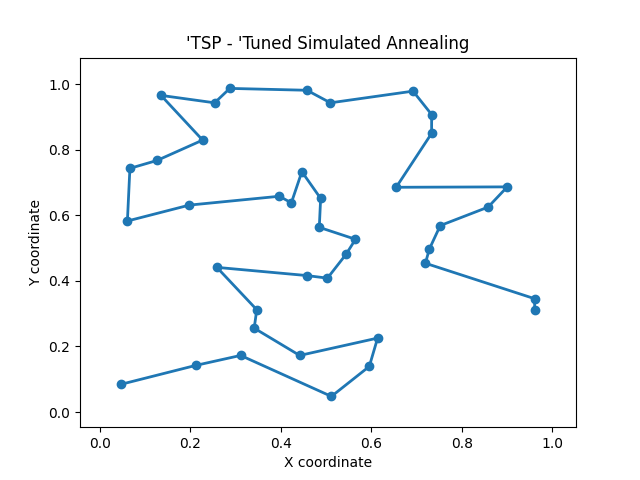
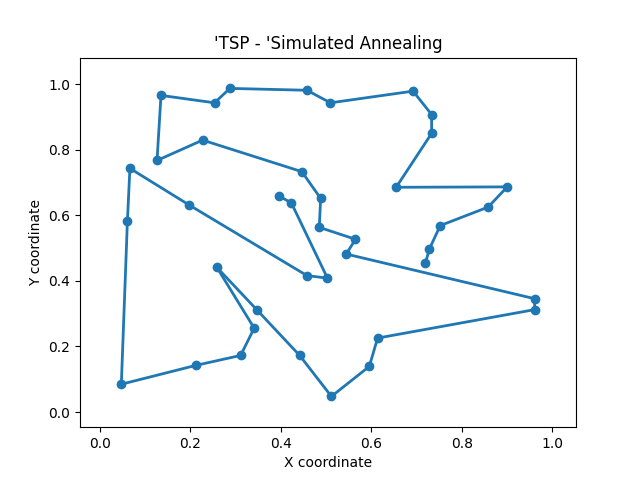
testing out performance

diff --git a/tsp.py b/tsp.py
@@ -3,6 +3,7 @@ import matplotlib.collections as mc
 import matplotlib.pylab as pl
 import numpy as np
 
+
 pythagorean = lambda a, b: math.sqrt(a**2 + b**2)
 
 def genlines(cities, itinerary):
@@ -226,17 +227,47 @@ def perturb_sa3(cities, itinerary, time, maxitin):
 
     return itinerarytoreturn.copy()
 
-if __name__ == "__main__":
+
+def siman(itinerary, cities):
+    """ """
+    global mindisance
+    global minitinerary
+    global minidx
+    
+    newitinerary = itinerary.copy()
+    mindistance = howfar(genlines(cities, itinerary))
+    minitinerary = itinerary
+    minidx = 0
+    
+    maxitin = len(itinerary) * 50_000
+    for t in range(0, maxitin):
+        newitinerary = perturb_sa3(cities, newitinerary, t, maxitin)
+    
+    return newitinerary.copy()
+    
+    
+def init_func():
+    """ """
+    global N
+    global random_seed
+    global time
+    global mindistance
+    global x, y
+    global cities
+    
     N = 40
     random_seed = 1729
     time = 500_000_000
-    maxitin = 2
-    minidx = 0
-    minitinerary = 0
-    #mindistance = float('inf')
+    mindistance = float('inf')
     
     #Genetare hipotetical cities
-    x, y, cities = generate_cities(random_seed, N)
+    x, y, cities = generate_cities(random_seed, N)        
+
+
+if __name__ == "__main__":
+
+    #Initialize all variables
+    init_func()
 
     #Itinerary secuentially generated 
     itinerary = list(range(0, N))
@@ -250,7 +281,7 @@ if __name__ == "__main__":
     itinerary = list(range(0, N))
     np.random.seed(random_seed)
     itinerary_ps = itinerary.copy()
-    for n in range(0, len(itinerary)*1000):
+    for n in range(0, len(itinerary)*50_000):
         itinerary_ps = perturb(cities, itinerary_ps)
     display_results(cities, itinerary_ps, N, 'Perturb search', 'figure4')    
 
@@ -258,7 +289,7 @@ if __name__ == "__main__":
     itinerary = list(range(0, N))
     np.random.seed(random_seed)
     itinerary_ps = itinerary.copy()
-    for n in range(0, len(itinerary)*1000):
+    for n in range(0, len(itinerary)*50_000):
         itinerary_ps = perturb_sa1(cities, itinerary_ps, time)
     display_results(cities, itinerary_ps, N, 'Simulated Annealing', 'figure5')    
 
@@ -266,15 +297,20 @@ if __name__ == "__main__":
     itinerary = list(range(0, N))
     np.random.seed(random_seed)
     itinerary_ps = itinerary.copy()
-    for n in range(0, len(itinerary)*1000):
+    for n in range(0, len(itinerary)*50_000):
         itinerary_ps = perturb_sa2(cities, itinerary_ps, time)
-    display_results(cities, itinerary_ps, N, 'Tuned Simulated Annealing', 'figure5')
+    display_results(cities, itinerary_ps, N, 'Tuned Simulated Annealing', 'figure6')
 
     #Itinerary generated by simulated annealing improved
-    itinerary = list(range(0, N))
     np.random.seed(random_seed)
-    itinerary_ps = itinerary.copy()
-    for n in range(0, len(itinerary)*1000):
-        itinerary_ps = perturb_sa3(cities, itinerary_ps, time, maxitin)
-    display_results(cities, itinerary_ps, N, 'Simulated Annealing allowing reset', 'figure6')  
+    itinerary = list(range(N))
+    nnitin = donn(cities, N)
+    nnresult = howfar(genlines(cities, nnitin))
+    simanitinerary = siman(itinerary, cities)
+    simanresult = howfar(genlines(cities, simanitinerary))    
+    print(f"Traveling Salesman Itinerary: {simanresult:.2f} km")
+    plotitinerary(cities, simanitinerary, 'Traveling Salesman Itinerary - Simulated Annealing', 'figure7')
+    print(f"{nnresult:.2}")
+    print(f"{simanresult/nnresult:.2}%")
+    
     
